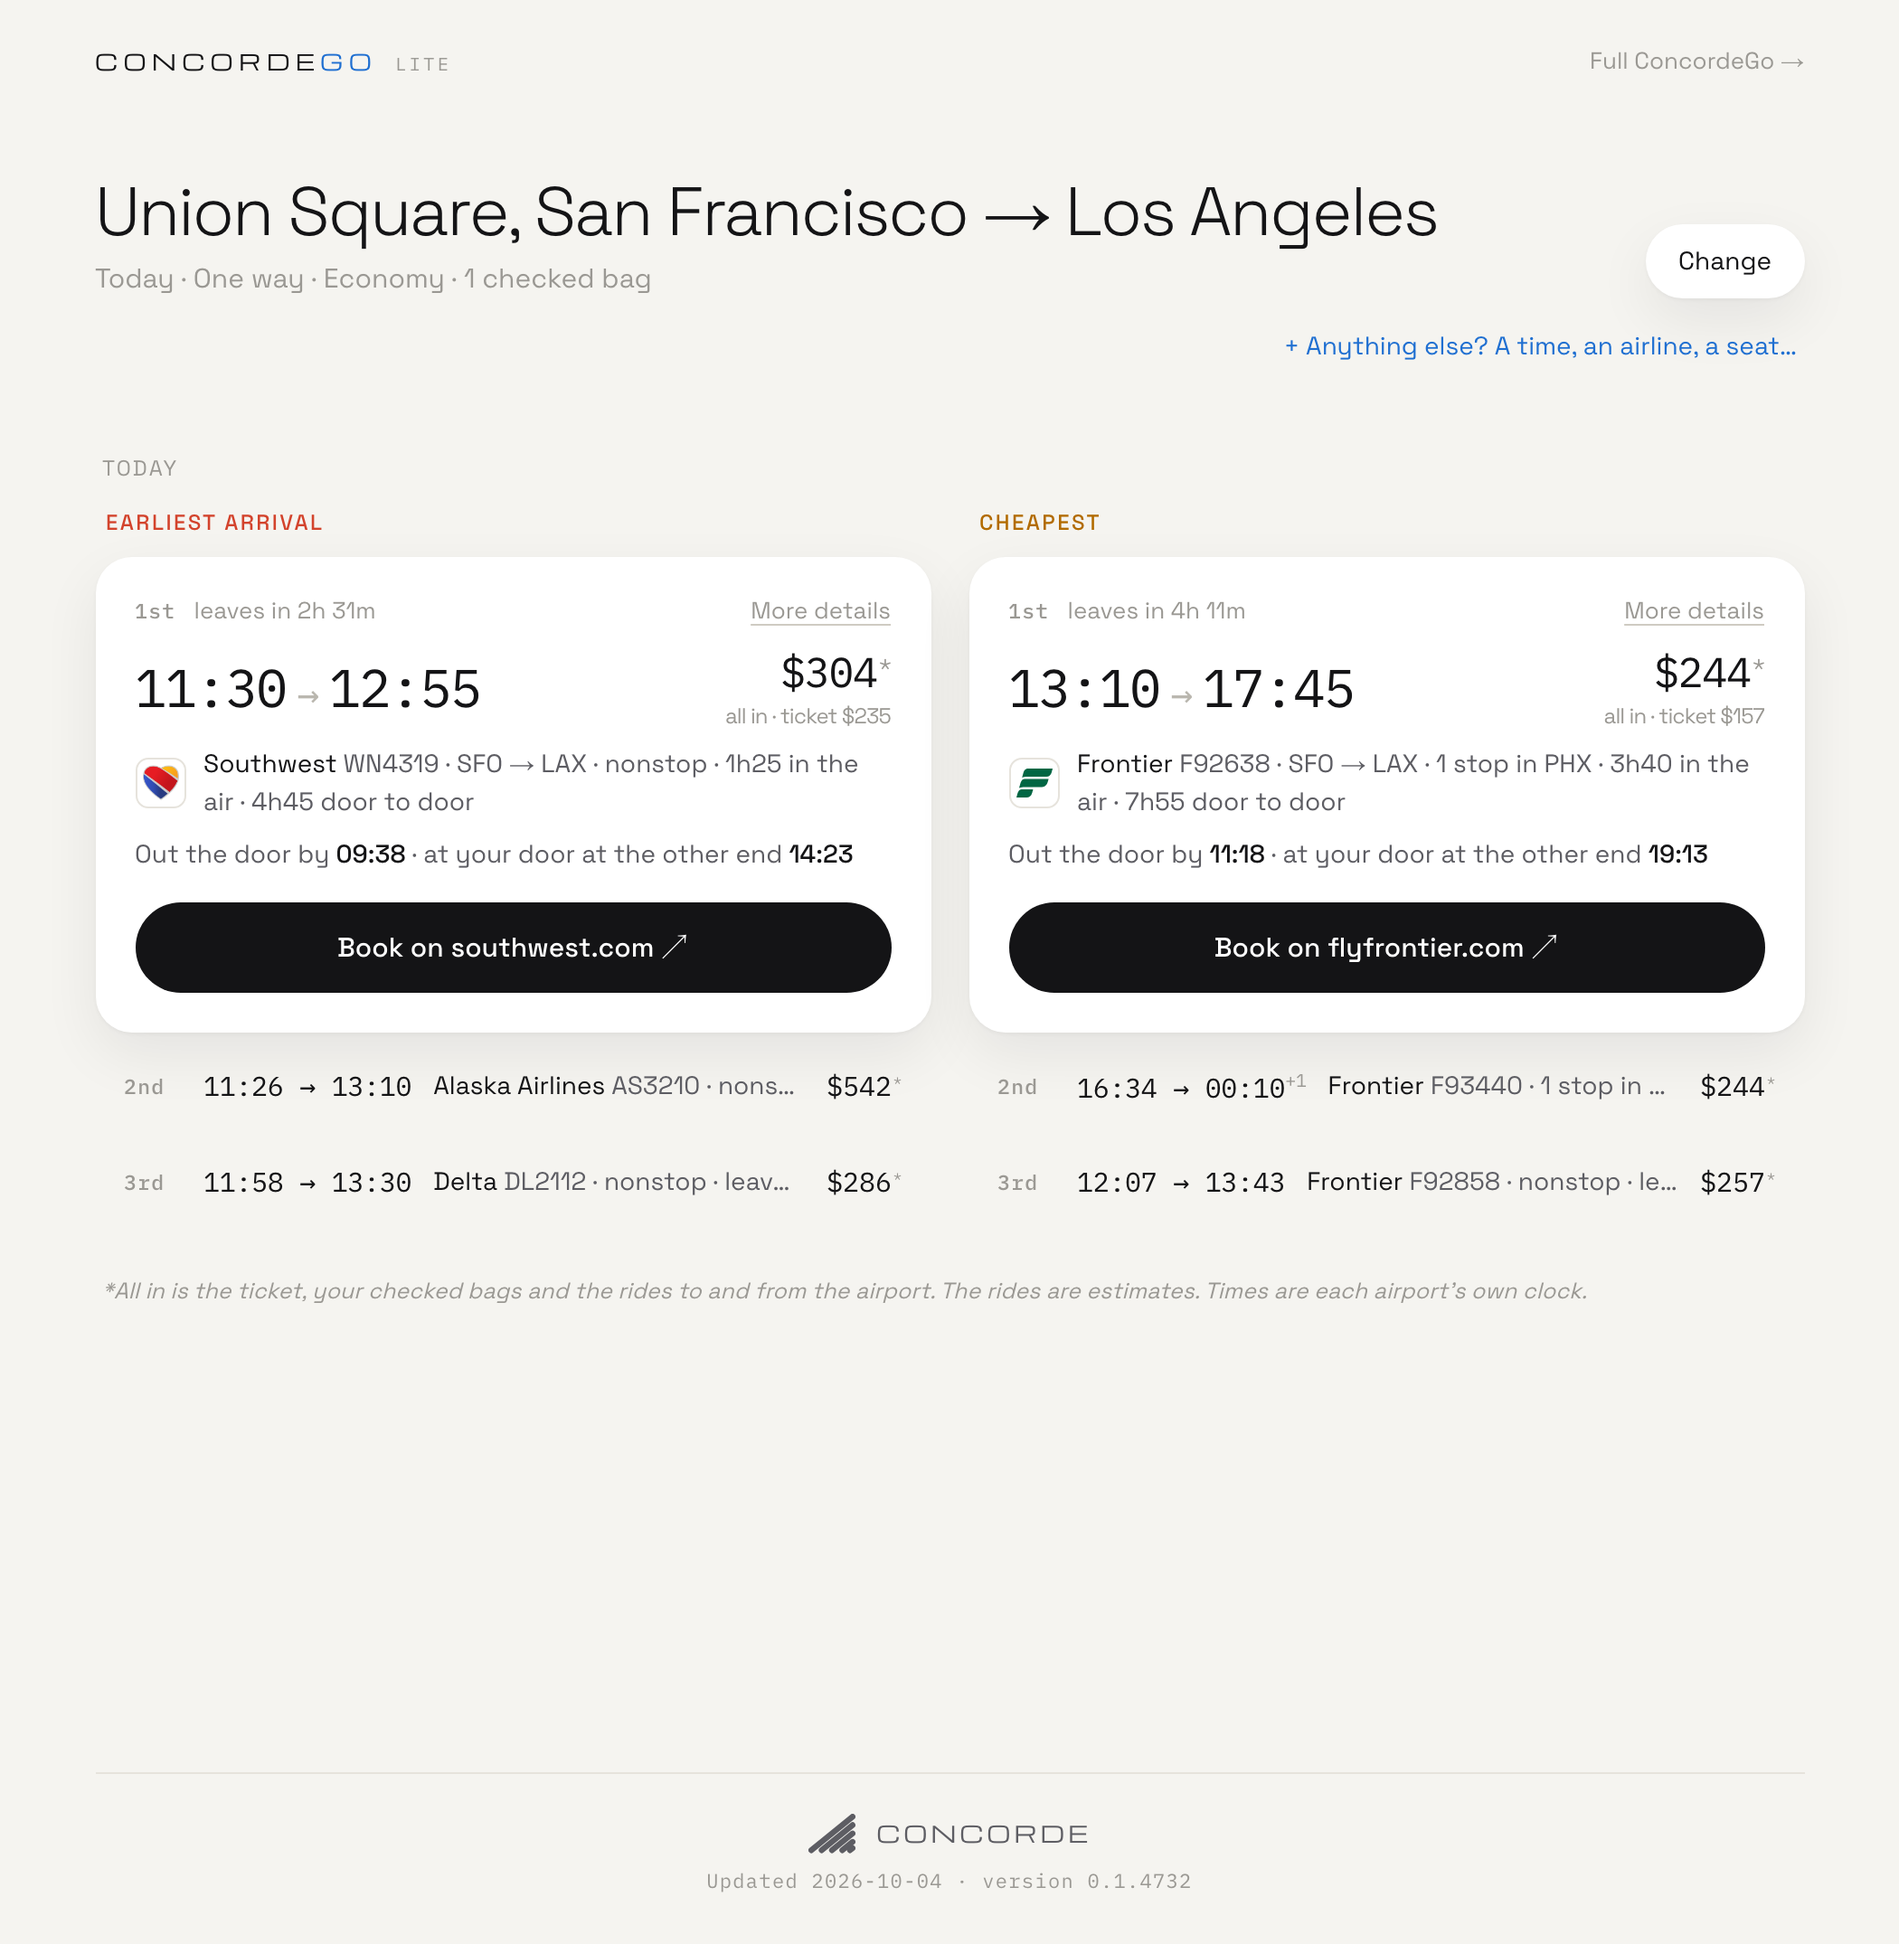
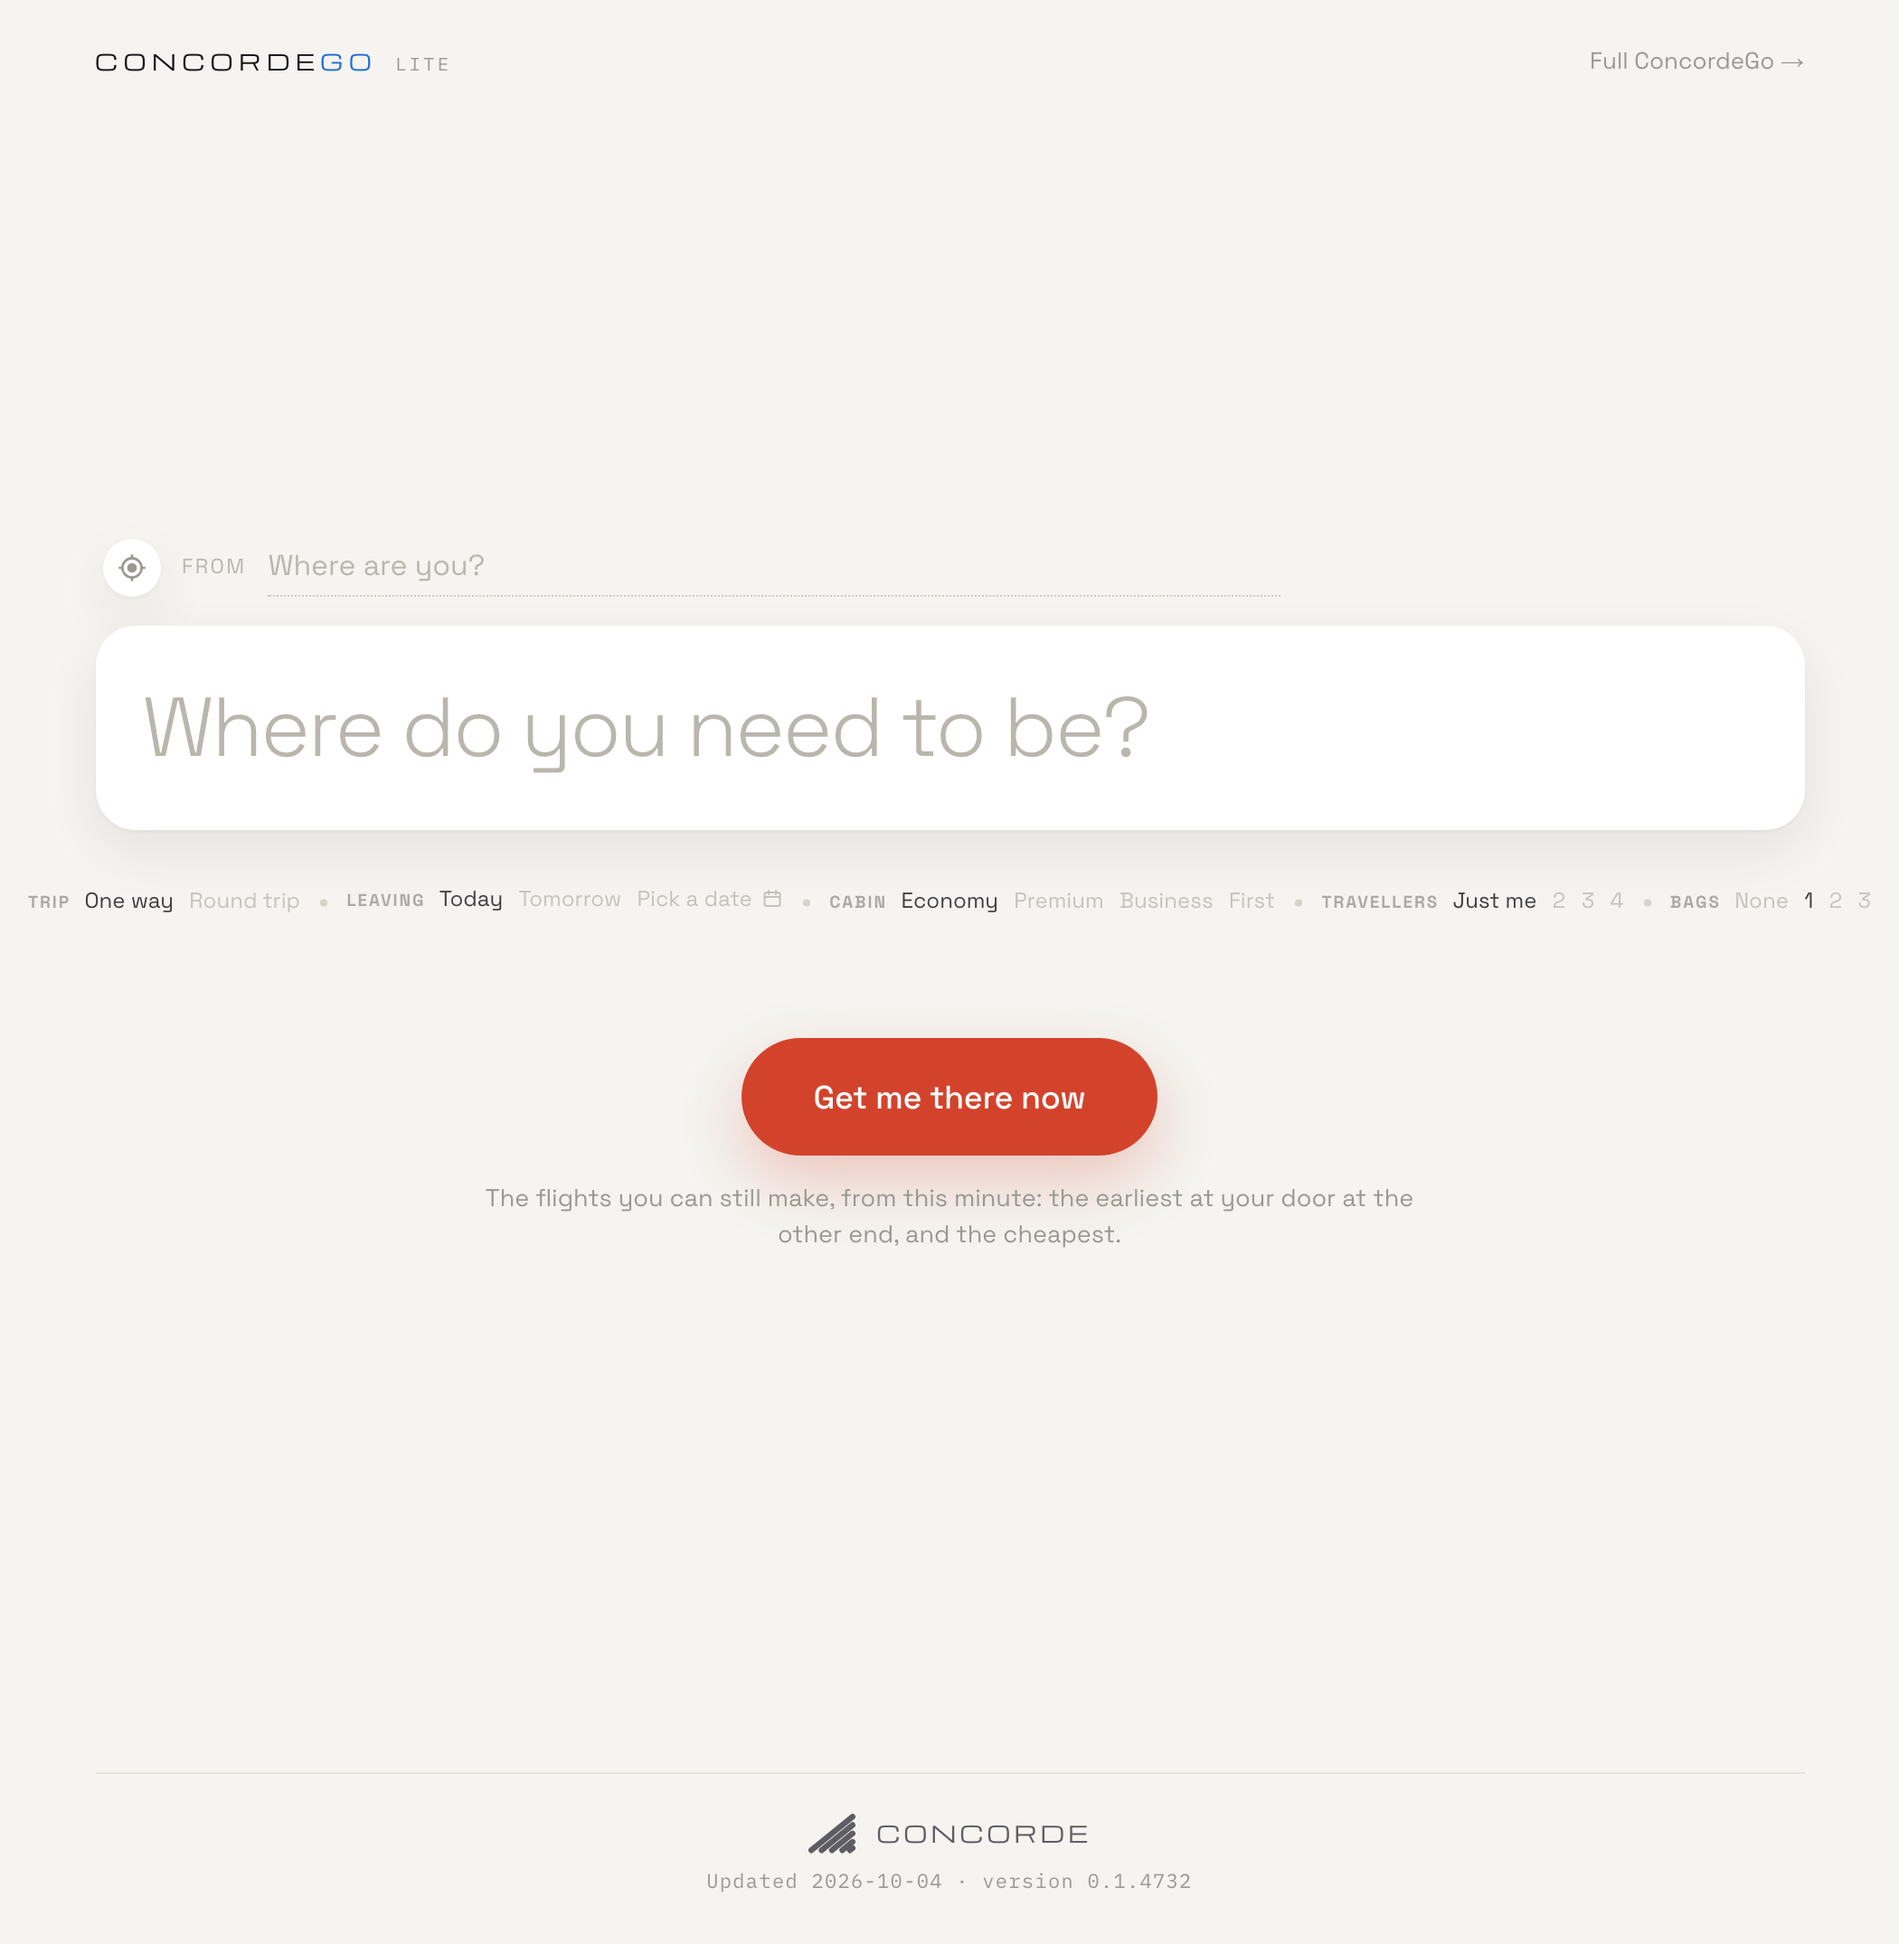
Lite's window shows the page as it opens; What's new links to Lite's card
The ConcordeGo Lite window is now a signed-out capture of the page a first
visitor sees, nothing typed: one box, one button. A ConcordeGo update that
is only about Lite now links to the Lite card in What's new, named
ConcordeGo Lite, and the next sync keeps it that way.

diff --git a/index.html b/index.html
@@ -858,7 +858,7 @@ footer .right{margin-left:auto;display:flex;gap:20px;flex-wrap:wrap}
       </div>
       <div class="news-day">
         <time datetime="2026-10-04">4 Oct</time>
-        <ul><li><a href="#concordego">ConcordeGo</a> &mdash; Lite, three good flights from one short search</li></ul>
+        <ul><li><a href="#concordego-lite">ConcordeGo Lite</a> &mdash; Three good flights from one short search</li></ul>
       </div>
       <div class="news-day">
         <time datetime="2026-10-02">2 Oct</time>
@@ -1232,7 +1232,8 @@ footer .right{margin-left:auto;display:flex;gap:20px;flex-wrap:wrap}
              nameplate (the nameplate script wants one per lockup) with
              "Lite" set beside it, as the page's own header does.
              The window is tools/windows/lite-window.html round a signed-out
-             capture of a real search; tools/README.md says how to retake it. -->
+             capture of the page as it first opens; tools/README.md says how
+             to retake it. -->
         <article class="card reveal" id="concordego-lite" aria-labelledby="lite-name">
           <div class="stage">
             <div class="stage-in">
@@ -1240,7 +1241,7 @@ footer .right{margin-left:auto;display:flex;gap:20px;flex-wrap:wrap}
                 <picture>
                   <source srcset="assets/shot-lite.webp" type="image/webp">
                   <img src="assets/shot-lite.png" width="1458" height="1532" loading="lazy" decoding="async"
-                       alt="ConcordeGo Lite in a browser, answering Union Square, San Francisco to Los Angeles today: the three earliest arrivals and the three cheapest flights side by side.">
+                       alt="ConcordeGo Lite in a browser, as it opens: one box asking Where do you need to be?, today, one way and economy already chosen, and a single Get me there now button.">
                 </picture>
                 <span class="visually-hidden">Enlarge</span>
               </a>

diff --git a/tools/windows/lite-window.html b/tools/windows/lite-window.html
@@ -1,9 +1,9 @@
 <!doctype html><html><head><meta charset="utf-8">
 <title>ConcordeGo Lite Window</title>
 <!-- A browser frame round lite-capture.png, a signed-out capture of the live
-     ConcordeGo Lite page (go.flyconcordefly.com/lite) showing its answer to
-     Union Square, San Francisco to Los Angeles. Retake it as tools/README.md
-     says, never from a signed-in browser. The capture is 1050 CSS px wide at 2x
+     ConcordeGo Lite page (go.flyconcordefly.com/lite) as a first-time visitor
+     sees it, nothing typed. Retake it as tools/README.md says, never from a
+     signed-in browser. The capture is 1050 CSS px wide at 2x
      (2100 px), and the page area below is exactly 1050x1075 CSS px, so it
      is drawn 1:1; the window keeps the 1000x1060 frame's proportions, so
      shot-lite stays 1458x1532. -->

diff --git a/tools/sync-releases.py b/tools/sync-releases.py
@@ -1119,6 +1119,11 @@ NEWS_KEY = "news"
 NEWS_PROMPT = Path(__file__).with_name("news-prompt.md")
 NEWS_FEATURES = 3
 ANCHOR = {"ai": ("#concordeai", "ConcordeAI"), "vpn": ("#concordevpn", "ConcordeVPN"), "go": ("#concordego", "ConcordeGo")}
+# A ConcordeGo update whose every line is about Lite ("Lite, three good
+# flights…") links to Lite's own card instead, named in full, the "Lite" lead
+# dropped from the line (Pat, 2026-10-05). A mixed update stays with ConcordeGo.
+LITE_ANCHOR = ("#concordego-lite", "ConcordeGo Lite")
+LITE_LEAD = re.compile(r"^Lite\b\s*[,:;\u2014\u2013-]?\s*")
 
 
 def news_key(kind, items):
@@ -1233,10 +1238,16 @@ def go_news(go, auto, today=None):
 def news_row(e):
     d = datetime.date.fromisoformat(e["date"])
     href, name = ANCHOR[e["key"]]
+    feats = list(e["features"])
+    if e["key"] == "go" and feats and all(LITE_LEAD.match(f) for f in feats):
+        rest = [LITE_LEAD.sub("", f, count=1) for f in feats]
+        if all(rest):
+            href, name = LITE_ANCHOR
+            feats = [r[:1].upper() + r[1:] for r in rest]
     head = '<a href="%s">%s</a>' % (href, name)
     if e.get("title"):
         head += " %s now available" % html.escape(e["title"])
-    tail = "; ".join(html.escape(f) for f in e["features"])
+    tail = "; ".join(html.escape(f) for f in feats)
     return ['      <div class="news-day">',
             '        <time datetime="%s">%d %s</time>' % (e["date"], d.day, MONTHS[d.month - 1]),
             '        <ul><li>%s%s</li></ul>' % (head, (" &mdash; " + tail) if tail else ""),

diff --git a/tools/README.md b/tools/README.md
@@ -422,38 +422,29 @@ anywhere in it.
 
 ### Retaking `windows/lite-capture.png`
 
-The capture is a real signed-out search on the live Lite page, so it has
-the page's answer in it: Union Square, San Francisco to Los Angeles, today,
-the three earliest arrivals beside the three cheapest. Same size and scale
-as the Go capture (1050x1075 CSS px at 2x). **Pick the From place by its
-suggestion first:** the geocoder names some places badly ("Times Square,
-Manhattan Community Board 5, New York"), and that name becomes the page's
-headline. Never let the page use your own location. The run spends one of
-the day's four signed-out searches:
+The capture is the live Lite page exactly as a first-time visitor opens it,
+signed out and with nothing typed: the one "Where do you need to be?" box,
+the chosen-for-you row (today, one way, economy) and the red button. That
+blank start is the point of the picture, so keep it empty; it also spends
+no search. Same size and scale as the Go capture (1050x1075 CSS px at 2x).
+`measure.mjs`'s fresh profile has no location permission, so the From
+field stays "Where are you?"; never take it from a browser that has one,
+or your street ends up in it:
 
     MEASURE_DPR=2 node tools/measure.mjs https://go.flyconcordefly.com/lite 1050x1075 \
       '(async () => {
-         const wait = (ms) => new Promise((r) => setTimeout(r, ms));
-         const btn = (t) => [...document.querySelectorAll("button,a")]
-           .find((b) => b.offsetParent !== null && b.innerText.trim() === t);
-         const pick = async (sel, list, v) => {
-           const i = document.querySelector(sel); i.focus(); i.value = v;
-           i.dispatchEvent(new Event("input", {bubbles: true})); await wait(1800);
-           const o = document.querySelector(list + " [role=option]");
-           o.dispatchEvent(new MouseEvent("mousedown", {bubbles: true})); o.click();
-           await wait(700); };
-         await wait(2000);
-         await pick("#from", "#sugg-from", "Union Square, San Francisco");
-         await pick("#to", "#sugg-to", "Los Angeles");
-         btn("Get me there now").click(); await wait(2500);
-         btn("Show my flights").click(); await wait(35000);
-         return { signedOut: !/@|left today|Admin/i.test(document.body.innerText),
-                  head: document.body.innerText.slice(0, 120) };
+         await new Promise((r) => setTimeout(r, 2500));
+         document.activeElement && document.activeElement.blur();
+         await new Promise((r) => setTimeout(r, 300));
+         return { from: document.querySelector("#from").value,
+                  to: document.querySelector("#to").value,
+                  signedOut: !/@|left today|Admin/i.test(document.body.innerText) };
        })()' /tmp/lite.png
     python3 -c "from PIL import Image; Image.open('/tmp/lite.png').convert('RGB').crop((0, 0, 2100, 2150)).save('tools/windows/lite-capture.png', optimize=True)"
 
-It must print `"signedOut": true`; then look at the PNG (both columns
-filled, a clean headline) before running `make-shots.py`.
+It must print empty `from` and `to` and `"signedOut": true`; then look at
+the PNG (the option row on one line, nothing typed) before running
+`make-shots.py`.
 
 ### Checking a layout
 
